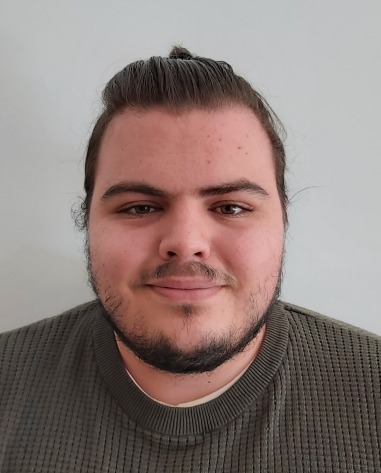
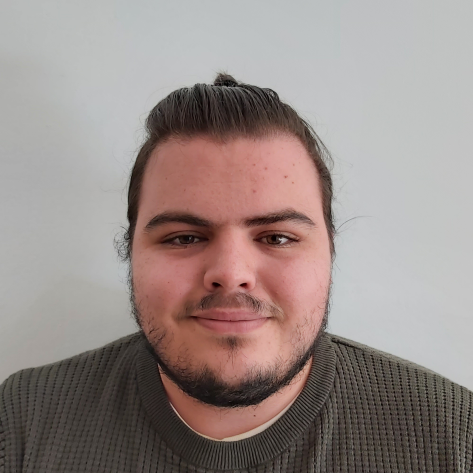
Carlos - Pic + Links | Jan - Pic resized

diff --git a/index.html b/index.html
@@ -608,14 +608,14 @@
       <div class="column-four filterDiv design">
         <div class="our-team">
           <div class="pic">
-              <img src="assets/img/team/anonymous.jpg">
+              <img src="assets/img/team/carlos_redolar.png">
               <ul class="social">
-                <li><a href="#" class="fa fa-linkedin" target="_blank"></a></li>
-                <li><a href="#" class="fa fa-github" target="_blank"></a></li>
+                <li><a href="https://www.linkedin.com/in/carlos-redolar/" class="fa fa-linkedin" target="_blank"></a></li>
+                <li><a href="https://github.com/carlosredolar" class="fa fa-github" target="_blank"></a></li>
               </ul>
           </div>
           <div class="team-content">
-              <h3 class="title">Carlos Redolar ???? NO LINKS</h3>
+              <h3 class="title">Carlos Redolar</h3>
               <span class="post">Design</span>
           </div>
         </div>
